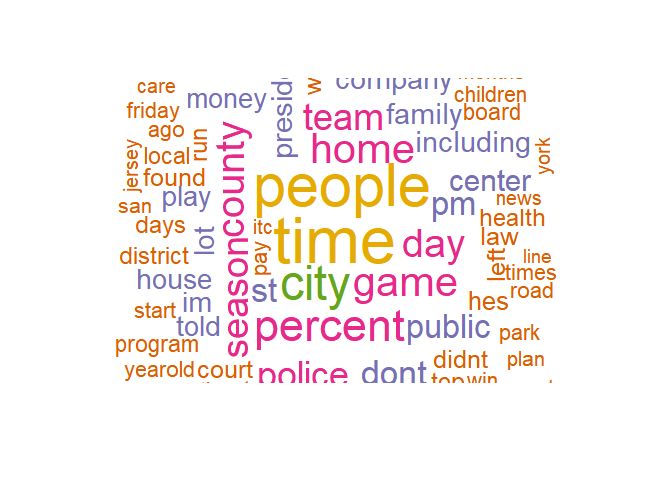
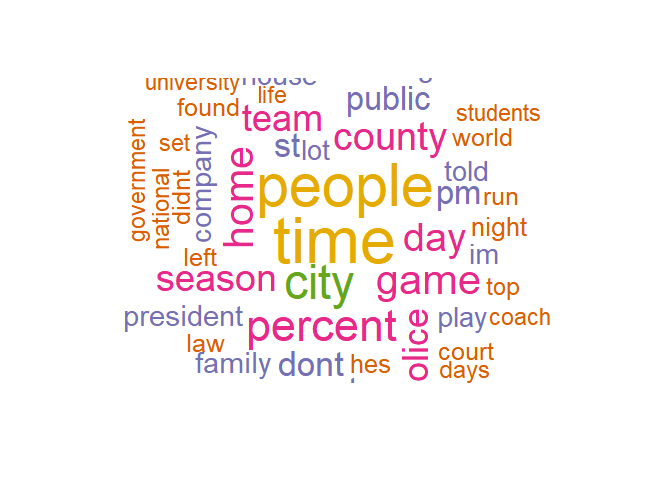
Working sampling scheme.

Changed region(s): [[0.1562, 0.1562, 0.8438, 0.8125]]

diff --git a/02_Task_Script.md b/02_Task_Script.md
@@ -1,7 +1,7 @@
 Task 2: Exploratory Data Analysis
 ================
 Mark Blackmore
-2017-10-19
+2017-10-20
 
 1. Introduction
 ---------------
@@ -14,7 +14,7 @@ Using this approach, we are able to use the **entire data set** as opposed to da
 start <- Sys.time()
 ```
 
-1. Data loading and cleaning
+2. Data loading and cleaning
 ----------------------------
 
 English Repository Files
@@ -52,8 +52,7 @@ replace_url <- "http[^[:space:]]*"
 replace_aaa <- "\\b(?=\\w*(\\w)\\1)\\w+\\b"  
 ```
 
-Clean dataframes for each souce.
-Cleaning is separted from tidying so unnest\_tokens function can be used for words, and ngrams.
+Clean dataframes for each souce. Cleaning is separted from tidying so `unnest_tokens` function can be used for words, and ngrams.
 
 ``` r
 clean_blogs <-  blogs %>%
@@ -73,6 +72,13 @@ clean_twitter <- twitter%>%
   mutate(text = str_replace_all(text, replace_url, "")) %>%
   mutate(text = str_replace_all(text, replace_aaa, "")) %>%  
   mutate(text = iconv(text, "ASCII//TRANSLIT"))
+```
+
+Clean up
+
+``` r
+rm(blogs, news, twitter, replace_reg, replace_url, replace_aaa)
+x <- gc()
 ```
 
 Create tidy dataframes for each source
@@ -125,83 +131,20 @@ saveRDS(tidy_repo, "./data/final/en_US/tidy_repo.rds")
 
     ## [1] 82.07806
 
-2. Most frequent words and word distributions
+3. Most frequent words and word distributions
 ---------------------------------------------
 
-``` r
-freq <- tidy_repo %>%
-  count(source, word) %>%
-  group_by(source) %>%
-  mutate(proportion = n / sum(n)) %>%
-  spread(source, proportion) %>%
-  gather(source, proportion, `blogs`:`twitter`) %>%
-  arrange(desc(proportion), desc(n))
-```
-
-Most frequent words
+Word counts: Number of unique words in repo
 
 ``` r
-kable(head(freq, 10))
-```
-
-| word   |       n| source  |  proportion|
-|:-------|-------:|:--------|-----------:|
-| im     |  157940| twitter |   0.0158961|
-| love   |  105474| twitter |   0.0106156|
-| day    |   89821| twitter |   0.0090402|
-| dont   |   88730| twitter |   0.0089304|
-| rt     |   88189| twitter |   0.0088759|
-| time   |   74547| twitter |   0.0075029|
-| time   |   87526| blogs   |   0.0074466|
-| lol    |   66386| twitter |   0.0066815|
-| people |   51422| twitter |   0.0051754|
-| people |   58839| blogs   |   0.0050059|
-
-Least frequent words
-
-``` r
-freq_low <- freq %>% 
-  arrange(proportion, n)
-kable(head(freq_low, 10)) 
-```
-
-| word           |    n| source |  proportion|
-|:---------------|----:|:-------|-----------:|
-| aaaaaaaaaaaaaa |    1| blogs  |       1e-07|
-| aabb           |    1| blogs  |       1e-07|
-| aaberg         |    1| blogs  |       1e-07|
-| aabergc        |    1| blogs  |       1e-07|
-| aac            |    1| blogs  |       1e-07|
-| aack           |    1| blogs  |       1e-07|
-| aadvanced      |    1| blogs  |       1e-07|
-| aafaton        |    1| blogs  |       1e-07|
-| aafes          |    1| blogs  |       1e-07|
-| aag            |    1| blogs  |       1e-07|
-
-Word counts
-
-``` r
-# Number of unique words in repo
 (repo_count <- tidy_repo %>%
-  summarise(keys = n_distinct(word)))
+    summarise(keys = n_distinct(word)))
 ```
 
     ## # A tibble: 1 x 1
     ##     keys
     ##    <int>
     ## 1 552745
-
-``` r
-# Potential to reduce repo size by cutoff proportion
-(small_repo_count <- freq %>%
-  filter(proportion > 0.0001) %>%
-  summarise(keys = n_distinct(word)))
-```
-
-    ## # A tibble: 1 x 1
-    ##    keys
-    ##   <int>
-    ## 1  2886
 
 Number of words to attain 50% and 90% coverage of all words in repo
 
@@ -223,66 +166,59 @@ cover_90 <- tidy_repo %>%
   mutate(proportion = n / sum(n)) %>%
   arrange(desc(proportion)) %>%  
   mutate(coverage = cumsum(proportion)) %>%
-  filter(coverage <= 0.5)
+  filter(coverage <= 0.9)
 nrow(cover_90)
 ```
 
-    ## [1] 1145
+    ## [1] 18050
 
-Word clouds
+4. Word distributions
+---------------------
+
+Most frequent words by proportion
 
 ``` r
-tidy_repo %>%
-  count(word) %>%
-  with(wordcloud(word, n, max.words = 150, 
-                 colors = brewer.pal(6, 'Dark2'), random.order = FALSE))
+freq <- tidy_repo %>%
+  count(source, word) %>%
+  group_by(source) %>%
+  mutate(proportion = n / sum(n)) %>%
+  spread(source, proportion) %>%
+  gather(source, proportion, `blogs`:`twitter`) %>%
+  arrange(desc(proportion), desc(n))
+kable(head(freq, 10))
 ```
 
-![](02_Task_Script_files/figure-markdown_github-ascii_identifiers/unnamed-chunk-14-1.png)
-
-Word clouds by source
+| word   |       n| source  |  proportion|
+|:-------|-------:|:--------|-----------:|
+| im     |  157940| twitter |   0.0158961|
+| love   |  105474| twitter |   0.0106156|
+| day    |   89821| twitter |   0.0090402|
+| dont   |   88730| twitter |   0.0089304|
+| rt     |   88189| twitter |   0.0088759|
+| time   |   74547| twitter |   0.0075029|
+| time   |   87526| blogs   |   0.0074466|
+| lol    |   66386| twitter |   0.0066815|
+| people |   51422| twitter |   0.0051754|
+| people |   58839| blogs   |   0.0050059|
 
 ``` r
-# Blogs
-tidy_repo %>%
-  filter(source == "blogs") %>%
-  count(word) %>%
-  with(wordcloud(word, n, max.words = 100, 
-                 colors = brewer.pal(6, 'Dark2'), random.order = FALSE))
+# Words above cutoff proportion: number of unique words
+cutoff <- 0.0001
+(small_repo_count <- freq %>%
+    filter(proportion > cutoff) %>%
+    summarise(keys = n_distinct(word)))
 ```
 
-![](02_Task_Script_files/figure-markdown_github-ascii_identifiers/unnamed-chunk-15-1.png)
+    ## # A tibble: 1 x 1
+    ##    keys
+    ##   <int>
+    ## 1  2886
+
+Word distribution by count
 
 ``` r
-# News
-```
-
-``` r
-tidy_repo %>%
-  filter(source == "news") %>%
-  count(word) %>%
-  with(wordcloud(word, n, max.words = 50, 
-                 colors = brewer.pal(6, 'Dark2'), random.order = FALSE))
-```
-
-![](02_Task_Script_files/figure-markdown_github-ascii_identifiers/chunkoptions-1.png)
-
-``` r
-# Twitter
-tidy_repo %>%
-  filter(source == "twitter") %>%
-  count(word) %>%
-  with(wordcloud(word, n, max.words = 100, 
-                 colors = brewer.pal(6, 'Dark2'), random.order = FALSE))
-```
-
-![](02_Task_Script_files/figure-markdown_github-ascii_identifiers/chunkoptions-2.png)
-
-Word distribution
-
-``` r
-tidy_repo %>%
-  count(word, sort = TRUE) %>%
+cover_90 %>%
+  #count(word, sort = TRUE) %>%
   filter(n > 35000) %>%
   mutate(word = reorder(word, n)) %>%
   ggplot(aes(word, n)) +
@@ -291,7 +227,7 @@ tidy_repo %>%
   coord_flip()
 ```
 
-![](02_Task_Script_files/figure-markdown_github-ascii_identifiers/unnamed-chunk-16-1.png)
+![](02_Task_Script_files/figure-markdown_github-ascii_identifiers/unnamed-chunk-13-1.png)
 
 Word distribution by source
 
@@ -303,39 +239,90 @@ freq %>%
   geom_col() + 
   xlab(NULL) + 
   coord_flip() +
-  facet_grid(~source, scales = "free") 
+  facet_grid(~source, scales = "free")
 ```
 
-![](02_Task_Script_files/figure-markdown_github-ascii_identifiers/unnamed-chunk-17-1.png)
+![](02_Task_Script_files/figure-markdown_github-ascii_identifiers/unnamed-chunk-14-1.png)
+
+Word cloud
+
+``` r
+cover_90 %>%
+  #count(word) %>%
+  with(wordcloud(word, n, max.words = 100, 
+                 colors = brewer.pal(6, 'Dark2'), random.order = FALSE))
+```
+
+![](02_Task_Script_files/figure-markdown_github-ascii_identifiers/unnamed-chunk-15-1.png)
 
 ``` r
 ################  
-## ngrams
-# 
-# blogs_bigrams <- clean_blogs  %>%
-#   unnest_tokens(bigram, text, token = "ngrams", n = 2)
-# 
-# news_bigrams <- clean_news  %>%
-#   unnest_tokens(bigram, text, token = "ngrams", n = 2)
-# 
-# twitter_bigrams <- clean_twitter  %>%
-#   unnest_tokens(bigram, text, token = "ngrams", n = 2)
-# 
-# #' Create tidy repository
-# bigram_repo <- bind_rows(mutate(blogs_bigrams, source = "blogs"),
-#                        mutate(news_bigrams,  source = "news"),
-#                        mutate(twitter_bigrams, source = "twitter"))
-# bigram_repo$source <- as.factor(bigram_repo$source)
+```
 
+5. Bigrams
+----------
+
+Create bigrams by source using `unnest_tokens`
+
+``` r
+blogs_bigrams <- clean_blogs  %>%
+  unnest_tokens(bigram, text, token = "ngrams", n = 2)
+
+news_bigrams <- clean_news  %>%
+  unnest_tokens(bigram, text, token = "ngrams", n = 2)
+
+twitter_bigrams <- clean_twitter  %>%
+  unnest_tokens(bigram, text, token = "ngrams", n = 2)
+```
+
+Create tidy bigram repository
+
+``` r
+bigram_repo <- bind_rows(mutate(blogs_bigrams, source = "blogs"),
+                       mutate(news_bigrams,  source = "news"),
+                       mutate(twitter_bigrams, source = "twitter"))
+bigram_repo$source <- as.factor(bigram_repo$source)
+```
+
+Number of words to attain 90% coverage of all words in repo
+
+``` r
+bigram_cover_90 <- bigram_repo %>%
+  count(bigram) %>%  
+  mutate(proportion = n / sum(n)) %>%
+  arrange(desc(proportion)) %>%  
+  mutate(coverage = cumsum(proportion)) %>%
+  filter(coverage <= 0.9)
+nrow(bigram_cover_90)
+```
+
+    ## [1] 2986631
+
+Bigram distribution
+
+``` r
+bigram_cover_90 %>%
+  #count(bigram, sort = TRUE) %>%
+  filter(n > 50000) %>%
+  mutate(bigram = reorder(bigram, n)) %>%
+  ggplot(aes(bigram, n)) +
+  geom_col() +
+  xlab(NULL) +
+  coord_flip()
+```
+
+![](02_Task_Script_files/figure-markdown_github-ascii_identifiers/unnamed-chunk-19-1.png)
+
+``` r
 end <- Sys.time()
 
 (run_time <- end - start)
 ```
 
-    ## Time difference of 5.668391 mins
+    ## Time difference of 15.00969 mins
 
 ``` r
-################
+###############
 ```
 
 ------------------------------------------------------------------------
